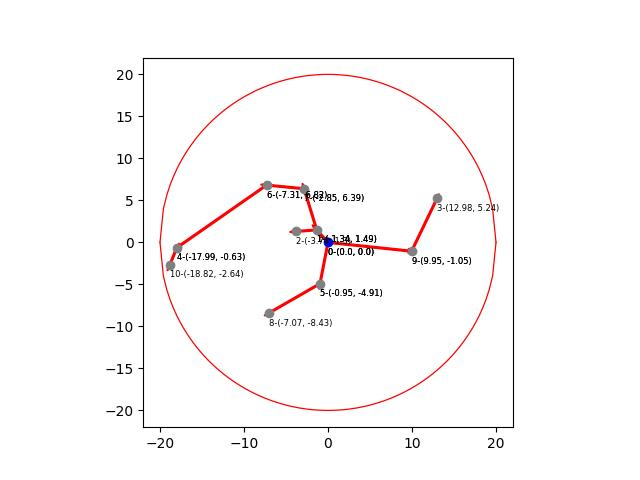
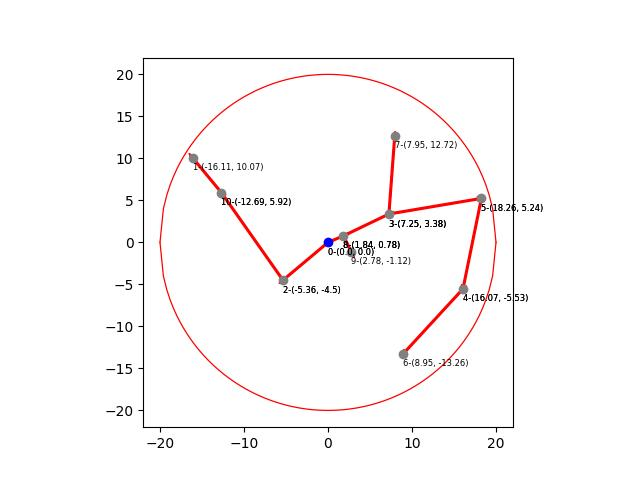
2 вариант сем №3

Changed region(s): [[0.25, 0.2812, 0.8438, 0.6875], [0.625, 0.6562, 0.75, 0.7812], [0.2812, 0.3125, 0.3125, 0.3438]]

diff --git a/lab3.py b/lab3.py
@@ -70,6 +70,50 @@ def EigenVill(tij, ai, d, cij):
 
     return edges, S, bandwidth
 
+def Prim1(cij, ai, d):
+    S = 0
+    bandwidth = [0]
+    bandwidth.extend(ai)
+
+    edges = []
+    added = np.zeros(len(cij), 'bool')
+    
+    while not np.all(added):
+
+        min_value = float('inf')
+        min_ij = None
+        for i in range(1, len(cij)):
+            row = cij[i]
+            for j in range(0, len(row)):
+                cell = row[j]
+                if cell < min_value and not added[i]:
+                    min_ij = (i,j)
+                    min_value = cell
+
+        if min_ij is None:
+            break
+
+        add = True
+        li, lj = min_ij
+        lS = bandwidth[li]+bandwidth[lj]
+        if lS > d:
+            add = False
+        for edge in edges:
+            i,j = edge
+            if j == li:
+                lS += bandwidth[i]
+                li, lj = i,j
+            if lS > d:
+                add = False
+                break
+        
+        if not added[min_ij[0]] and add:
+            edges.append(min_ij)
+            S+= cij[min_ij[0]][min_ij[1]]
+            added[min_ij[0]] = True
+
+    return edges, S
+
 
 def add_neighbours(i, cij, added, queue):
     for j in range(len(cij)):
@@ -110,6 +154,8 @@ def Prim(cij):
 
 
 
+
+
 def main():
     center = (0, 0)
     n = 10
@@ -134,7 +180,12 @@ def main():
     tij[0,1:] = 0
 
     edges, S1, bandwidth = EigenVill(tij, ai, d, cij)
+    edges2, S3 = Prim1(cij, ai, d)
     edges1, S2 = Prim(cij)
+
+    for ci in cij:
+        res = " ".join([str(c) for c in ci])
+        print(res)  
 
     with open("res_lab3.txt", "w+") as file:
         file.write("ai\t" + str(ai))
@@ -145,7 +196,7 @@ def main():
         file.write("bandwidth\t" + str(bandwidth))
         file.write("\n")
 
-        file.write("cij\t" + str(cij))
+        file.write("cij " + str(cij))
         file.write("\n")
         file.write("tij\t" + str(tij))
         file.write("\n")
@@ -166,6 +217,8 @@ def main():
         file.write("edges\t" + str((edges1)))
         file.write("\n")
 
+    print(edges2)
+    print(S3)
 
     circle_x = np.linspace(-r, r, 100)
     circle_y = np.sqrt(r * r - circle_x ** 2)
@@ -213,6 +266,34 @@ def main():
     ax = plt.gca()
     ax.set_aspect('equal', adjustable='box')
     plt.savefig("Prim.jpg")
+    plt.show()
+
+
+    circle_x = np.linspace(-r, r, 100)
+    circle_y = np.sqrt(r * r - circle_x ** 2)
+
+    plt.plot(circle_x, circle_y, linewidth=0.9, color="red")
+    plt.plot(circle_x, -circle_y, linewidth=0.9, color="red")
+
+    ps = np.array(points).T
+    pointsX, pointsY = ps[0], ps[1]
+    plt.plot(pointsX, pointsY, 'o', color="gray")
+
+    plt.plot(0, 0, 'o', color="blue")
+
+    
+
+    for edge_index in edges2:
+        i, j = edge_index
+        x1, y1 = all_points[i]
+        x2, y2 = all_points[j]
+        plt.arrow(x1, y1, (x2-x1)*0.96, (y2-y1)*0.96, width=0.2, color="red")
+        plt.text(x1, y1-1.5, str(i) + "-" + str((x1, y1)), fontsize=6)
+        plt.text(x2, y2 - 1.5, str(j) + "-" + str((x2, y2)), fontsize=6)
+
+    ax = plt.gca()
+    ax.set_aspect('equal', adjustable='box')
+    plt.savefig("Prim1.jpg")
     plt.show()
 
 
